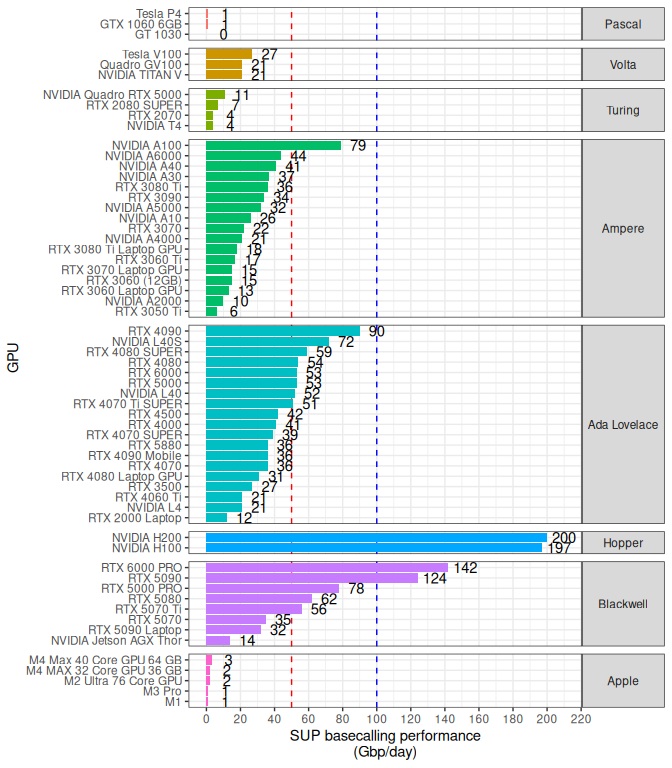
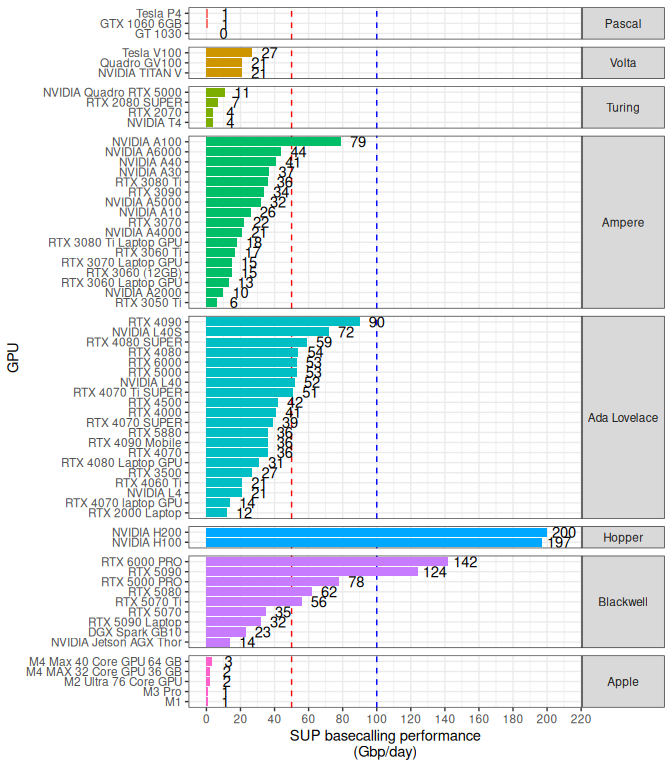
added 2 more GPUs

Changed region(s): [[0.0312, 0.0, 1.0, 0.9062], [0.875, 0.5312, 1.0, 0.5625], [0.875, 0.2812, 0.9688, 0.3125]]

diff --git a/README.md b/README.md
@@ -1,7 +1,7 @@
 README
 ================
 Rasmus Kirkegaard
-29 April, 2026
+11 May, 2026
 
 ## Aim
 